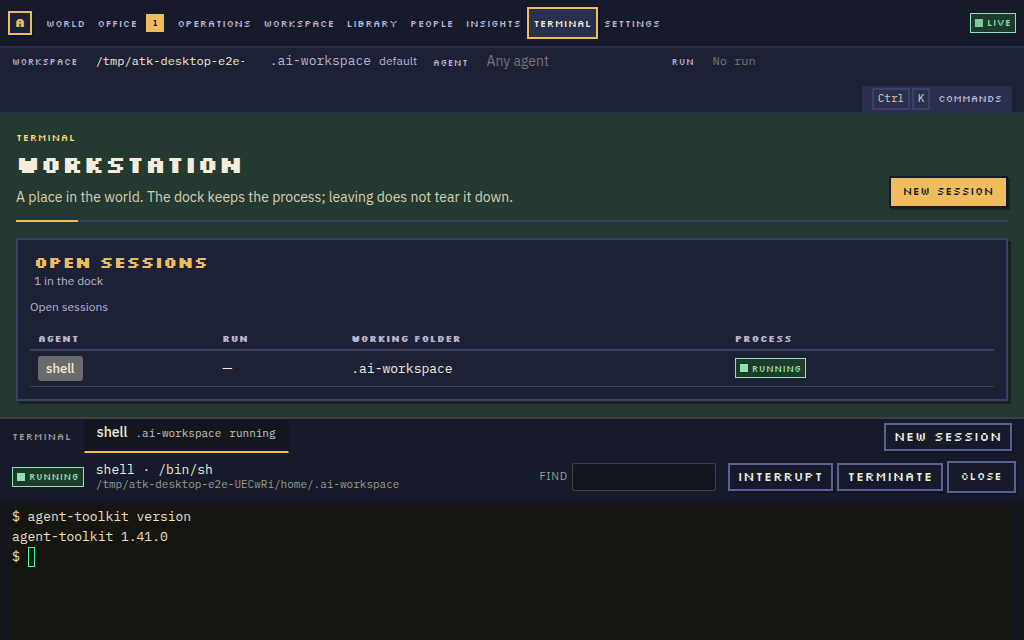
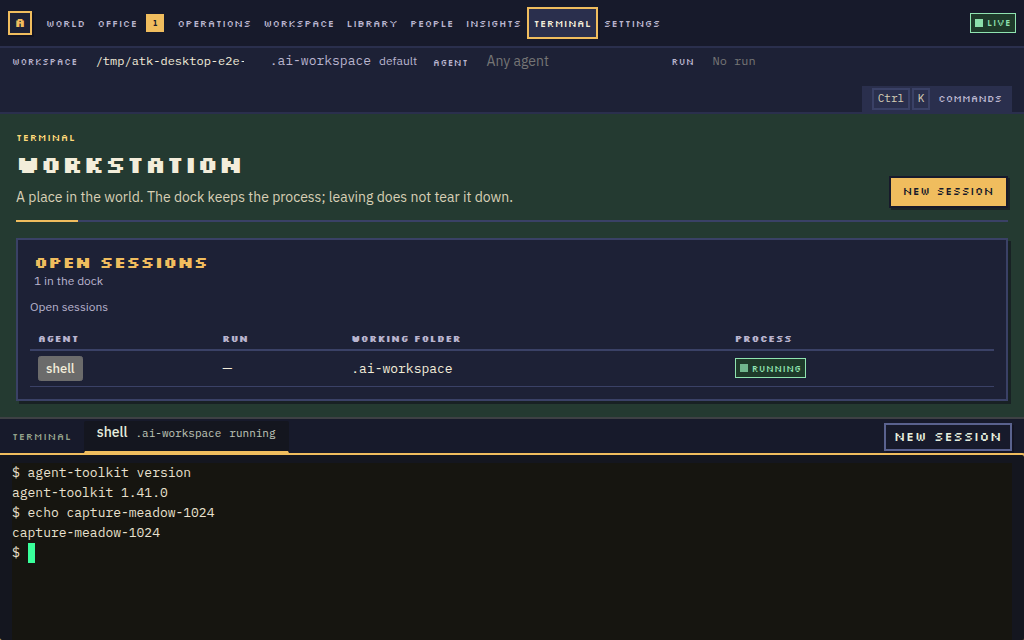
docs(desktop): refresh terminal proof at both sizes

Changed region(s): [[0.0, 0.6875, 1.0, 0.875]]

diff --git a/docs/desktop/VISUAL_QA.md b/docs/desktop/VISUAL_QA.md
@@ -814,11 +814,8 @@ unfinished art work: broad lawn regions remain visually uniform, the central
 watercourse and many paths are geometric, and the project room still has a
 large unused plank floor. People, Library, Operations and Settings use
 readable compact information layouts; the People screen has substantial unused
-vertical space at large size. The real PTY capture contains command output at
-1024×640, but the 1920×1080 capture's terminal canvas is blank despite the same
-session being live, so only the compact terminal image is used in the README.
-These are remaining polish issues, not reasons to claim the desired magical
-world art pass is finished.
+vertical space at large size. These are remaining polish issues, not reasons to
+claim the desired magical world art pass is finished.
 
 Opened and preserved review images:
 
@@ -839,3 +836,13 @@ Opened and preserved review images:
   [Munder import review, compact](assets/electron/review-2026-10-05/meadow-1024x640-munder-import-review.png),
   [PTY with output, compact](assets/electron/review-2026-10-05/meadow-1024x640-terminal.png),
   and [PTY, large](assets/electron/review-2026-10-05/meadow-1920x1080-terminal.png).
+
+### Terminal resize recapture
+
+The first large terminal screenshot was captured before the resized PTY had
+produced visible output. The Electron E2E now writes and checks a real marker
+after each resize. I reran it on source `50704f60` in [workflow
+37284850886](https://github.com/ulises-jeremias/agent-toolkit/actions/runs/37284850886)
+and opened both terminal screenshots at native resolution. Output is visible at
+1024×640 and 1920×1080, so both sizes are now suitable for documentation. The
+README uses the compact capture; the review gallery retains both.
